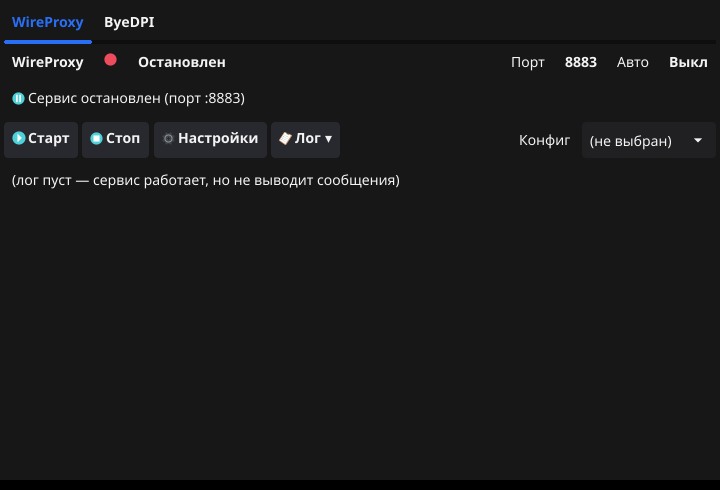
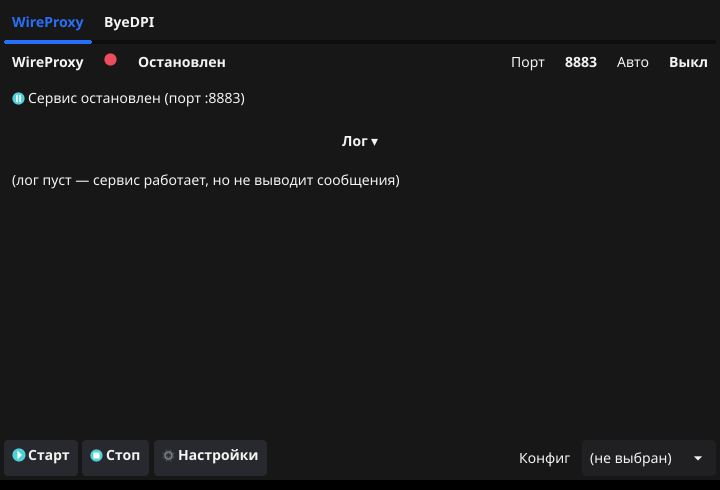
Fix log collapse: restore buttons to bottom, use collapsible header
Per user feedback:
- Buttons belong at the bottom.  Restored border layout:
  top=status, bottom=buttons, center=log area.
- Collapsible panels should have a placeholder when collapsed, not a
  separate toggle button.  Removed the 'Лог' toggle button from the
  button row.  The log area now starts with a header bar ('Лог ▾')
  that is always visible — it acts as the placeholder when collapsed
  and the title bar when expanded.  Clicking it toggles the log scroll
  visibility and resizes the window.
- The header uses LowImportance styling for a subtle, header-like look.
- When collapsed: header shows 'Лог ▸', log scroll is hidden, window
  shrinks from 480→~203 (Fyne enforces content min size).
- When expanded: header shows 'Лог ▾', log scroll fills the space
  between header and bottom buttons.

diff --git a/tab.go b/tab.go
@@ -12,12 +12,12 @@ import (
 	"fyne.io/fyne/v2/widget"
 )
 
-// Window heights for expanded / collapsed log modes.  The toggle button
-// switches between these so the window physically shrinks when the log
-// is hidden.  The collapsed height fits just the status + button rows.
+// Window heights for expanded / collapsed log modes.  The collapsible
+// log header toggles between these so the window physically shrinks when
+// the log is hidden.  The collapsed height fits status + header + buttons.
 const (
 	logExpandedHeight  = 480
-	logCollapsedHeight = 115
+	logCollapsedHeight = 150
 )
 
 // serviceTab holds the UI widgets for one service tab and runs the
@@ -38,7 +38,7 @@ type serviceTab struct {
 	network   *widget.Label
 	logLabel  *widget.Label
 	logScroll *container.Scroll
-	logToggle *widget.Button
+	logHeader *widget.Button // collapsible header bar (placeholder when collapsed)
 
 	// Inline config dropdown (right-aligned on the button row).
 	configSelect   *widget.Select
@@ -100,11 +100,20 @@ func newServiceTab(svc *ServiceDef, cfg *Config, win fyne.Window,
 	t.network = widget.NewLabel("")
 	topPanel := container.NewVBox(statusRow, t.network)
 
-	// --- Log panel ---
+	// --- Log panel (collapsible) ---
+	// The header bar is always visible — it acts as the placeholder when
+	// collapsed and as the title bar when expanded.  Clicking it toggles
+	// the log scroll visibility and resizes the window.
+	t.logHeader = widget.NewButton("Лог ▾", onToggleLog)
+	t.logHeader.Importance = widget.LowImportance // subtle, header-like
+
 	t.logLabel = widget.NewLabel("")
 	t.logLabel.Wrapping = fyne.TextWrapWord
 	t.logScroll = container.NewVScroll(t.logLabel)
 	t.logScroll.SetMinSize(fyne.NewSize(0, 200))
+
+	// Center: header (always visible) + scroll (hidden when collapsed).
+	logArea := container.NewVBox(t.logHeader, t.logScroll)
 
 	// --- Control buttons ---
 	t.startBtn = widget.NewButton("▶ Старт", func() {
@@ -132,10 +141,7 @@ func newServiceTab(svc *ServiceDef, cfg *Config, win fyne.Window,
 
 	settingsBtn := widget.NewButton("⚙ Настройки", onSettings)
 
-	// Log collapse toggle: hides the log panel and shrinks the window.
-	t.logToggle = widget.NewButton("📋 Лог ▾", onToggleLog)
-
-	leftBtns := container.NewHBox(t.startBtn, stopBtn, settingsBtn, t.logToggle)
+	leftBtns := container.NewHBox(t.startBtn, stopBtn, settingsBtn)
 
 	// Right side: inline config dropdown (only for services with profiles).
 	var rightSide fyne.CanvasObject
@@ -153,15 +159,12 @@ func newServiceTab(svc *ServiceDef, cfg *Config, win fyne.Window,
 		buttons = container.NewHBox(leftBtns, layout.NewSpacer())
 	}
 
-	// Layout: status + buttons at top, log fills the center.
-	// When the log is hidden (collapsed), only the top remains so the
-	// window can shrink with no empty gap between status and buttons.
-	topWithButtons := container.NewVBox(topPanel, buttons)
-
+	// Layout: status on top, buttons on bottom, collapsible log in center.
 	t.content = container.NewBorder(
-		topWithButtons, // top: status + buttons
-		nil, nil, nil,  // no bottom/sides
-		t.logScroll,    // center: scrollable log (fills remaining, hidden when collapsed)
+		topPanel,  // top: status + network
+		buttons,   // bottom: control buttons + config dropdown
+		nil, nil,
+		logArea,   // center: collapsible log header + scroll
 	)
 
 	// Initial refresh, then background loops.
@@ -198,16 +201,17 @@ func (t *serviceTab) buildConfigSelect() {
 // Content returns the root canvas object for this tab.
 func (t *serviceTab) Content() fyne.CanvasObject { return t.content }
 
-// setLogVisible shows or hides the log panel and updates the toggle label.
-// The actual window resize is handled by ProxyApp.toggleLog so both tabs
-// stay in sync.
+// setLogVisible shows or hides the log scroll and updates the header
+// chevron.  The header bar itself stays visible — it is the placeholder
+// when collapsed.  The window resize is handled by ProxyApp.toggleLog so
+// both tabs stay in sync.
 func (t *serviceTab) setLogVisible(visible bool) {
 	if visible {
 		t.logScroll.Show()
-		t.logToggle.SetText("📋 Лог ▾")
+		t.logHeader.SetText("Лог ▾")
 	} else {
 		t.logScroll.Hide()
-		t.logToggle.SetText("📋 Лог ▸")
+		t.logHeader.SetText("Лог ▸")
 	}
 }
 
